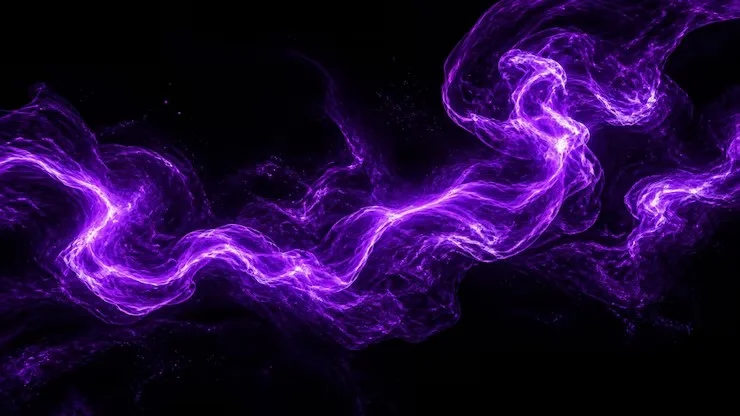
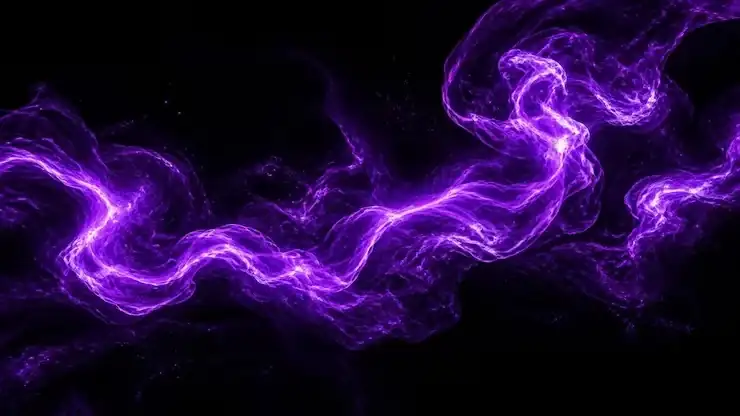
perf: correct pagespeed insight feedback

diff --git a/src/pages/public/HomePage/sections/HeroSection.tsx b/src/pages/public/HomePage/sections/HeroSection.tsx
@@ -15,14 +15,15 @@ import { useThemeStore } from '@/shared/state/useThemeStore';
 
 const HERO_FLARE = '/images/hero-flare.webp';
 
+/** Keep opacity at 1 — Lighthouse LCP was stuck ~2.8s on hero copy with opacity:0. */
 const fadeUp = {
-  hidden: { opacity: 0, y: 10 },
+  hidden: { opacity: 1, y: 12 },
   show: (i: number) => ({
     opacity: 1,
     y: 0,
     transition: {
-      delay: 0.08 + i * 0.1,
-      duration: 0.55,
+      delay: 0.04 + i * 0.06,
+      duration: 0.4,
       ease: [0.22, 1, 0.36, 1] as const,
     },
   }),
@@ -141,7 +142,7 @@ export const HeroSection: React.FC = () => {
             {t('hero.greeting')}
           </motion.p>
 
-          {/* Name - blurIn replays on each re-appearance */}
+          {/* Name — first paint is static (LCP-safe); blurIn only on re-entry */}
           <motion.h1
             ref={nameWrapRef}
             custom={1}
@@ -150,29 +151,38 @@ export const HeroSection: React.FC = () => {
             animate="show"
             className="font-display mb-2 text-[2.15rem] leading-[1.05] text-foreground sm:mb-3 sm:text-5xl md:text-6xl lg:text-7xl"
           >
-            <TextAnimate
-              key={`barthez-${nameEnterKey}`}
-              animation="blurIn"
-              as="span"
-              once={false}
-              startOnView={false}
-              className="mr-2 inline-block"
-              segmentClassName="text-foreground"
-            >
-              Barthez
-            </TextAnimate>
-            <TextAnimate
-              key={`kenwou-${nameEnterKey}`}
-              animation="blurIn"
-              by="character"
-              duration={1}
-              once={false}
-              startOnView={false}
-              className="inline-block uppercase"
-              segmentClassName="text-foreground"
-            >
-              Kenwou
-            </TextAnimate>
+            {nameEnterKey === 0 ? (
+              <>
+                <span className="mr-2 inline-block text-foreground">Barthez</span>
+                <span className="inline-block uppercase text-foreground">Kenwou</span>
+              </>
+            ) : (
+              <>
+                <TextAnimate
+                  key={`barthez-${nameEnterKey}`}
+                  animation="blurIn"
+                  as="span"
+                  once={false}
+                  startOnView={false}
+                  className="mr-2 inline-block"
+                  segmentClassName="text-foreground"
+                >
+                  Barthez
+                </TextAnimate>
+                <TextAnimate
+                  key={`kenwou-${nameEnterKey}`}
+                  animation="blurIn"
+                  by="character"
+                  duration={1}
+                  once={false}
+                  startOnView={false}
+                  className="inline-block uppercase"
+                  segmentClassName="text-foreground"
+                >
+                  Kenwou
+                </TextAnimate>
+              </>
+            )}
           </motion.h1>
 
           {/* Role - hand writing cursor (height reserved by TypingAnimation sizer) */}

diff --git a/src/entities/partners/lib/optimizedPartnerLogos.ts b/src/entities/partners/lib/optimizedPartnerLogos.ts
@@ -1,0 +1,41 @@
+/**
+ * Local WebP stand-ins for partner logos (display ~120×40 / 2× retina).
+ * Remote CMS originals are often 300–2000px PNGs (~1MB total on the home marquee).
+ * Re-run optimization when partner IDs / logos change in CMS.
+ */
+const BY_PARTNER_ID: Record<string, string> = {
+  '6acb84e4a56b65010f954213': '/images/partners/6acb84e4a56b65010f954213.webp', // GTA
+  '6acb84afa56b65010f954210': '/images/partners/6acb84afa56b65010f954210.webp', // ZENORA
+  '6acb8773a56b65010f954225': '/images/partners/6acb8773a56b65010f954225.webp', // NEXUS
+  '6acb8741a56b65010f954222': '/images/partners/6acb8741a56b65010f954222.webp', // Worketyamo
+  '6acb8526a56b65010f954216': '/images/partners/6acb8526a56b65010f954216.webp', // K&C
+  '6acb86e1a56b65010f95421f': '/images/partners/6acb86e1a56b65010f95421f.webp', // ESOPA
+  '6acb86a5a56b65010f95421c': '/images/partners/6acb86a5a56b65010f95421c.webp', // EYG
+  '6acb8652a56b65010f954219': '/images/partners/6acb8652a56b65010f954219.webp', // CAFCA
+  '6acf763b1d98e9625fda9232': '/images/partners/6acf763b1d98e9625fda9232.webp', // Cabinet CESR
+};
+
+/** Filename fragment → local path (survives CMS re-upload of same asset name). */
+const BY_FILENAME_HINT: Array<[string, string]> = [
+  ['logo-esopa', BY_PARTNER_ID['6acb86e1a56b65010f95421f']],
+  ['logo-cafca', BY_PARTNER_ID['6acb8652a56b65010f954219']],
+  ['logo-nexus', BY_PARTNER_ID['6acb8773a56b65010f954225']],
+  ['zenora-logo', BY_PARTNER_ID['6acb84afa56b65010f954210']],
+  ['logo-eyg', BY_PARTNER_ID['6acb86a5a56b65010f95421c']],
+  ['logo-worketyamo', BY_PARTNER_ID['6acb8741a56b65010f954222']],
+  ['logo-kc', BY_PARTNER_ID['6acb8526a56b65010f954216']],
+  ['gta-ecosystem', BY_PARTNER_ID['6acb84e4a56b65010f954213']],
+  ['dee480b2-c333-4246-85dd-07a03d9a09b3', BY_PARTNER_ID['6acf763b1d98e9625fda9232']],
+];
+
+export function resolvePartnerLogoUrl(partnerId: string, remoteUrl: string): string {
+  const byId = BY_PARTNER_ID[partnerId];
+  if (byId) return byId;
+
+  const lower = remoteUrl.toLowerCase();
+  for (const [hint, path] of BY_FILENAME_HINT) {
+    if (lower.includes(hint)) return path;
+  }
+
+  return remoteUrl;
+}

diff --git a/src/app/routes/prefetch.ts b/src/app/routes/prefetch.ts
@@ -4,19 +4,10 @@ import { useSkillIconsStore } from '@/entities/skills/model/useSkillIconsStore';
 export function prefetchRoutes() {
   if (typeof window === 'undefined') return;
 
+  // Only warm the most likely next navigation. Everything else: hover/touch via prefetchRoute().
+  // Eager multi-route prefetch was showing up as a ~6s critical-path tail in Lighthouse.
   const doPrefetch = () => {
-    // Keep the first idle pass light. Blog/project pages pull large mock chunks —
-    // those warm only on hover/touch via prefetchRoute().
-    void import('@/pages/public/AboutPage/About');
-    void import('@/pages/public/ServicePage/service');
     void import('@/pages/public/Contact/contact');
-    void import('@/pages/public/CvPage/cv');
-  };
-
-  const warmHeavy = () => {
-    void import('@/pages/public/SkillPage/skill');
-    void import('@/pages/public/ProjectPage/project');
-    void useSkillIconsStore.getState().ensureLoaded();
   };
 
   const rIC =
@@ -26,11 +17,10 @@ export function prefetchRoutes() {
       }
     ).requestIdleCallback ??
     function (cb: () => void) {
-      return window.setTimeout(cb, 300);
+      return window.setTimeout(cb, 1200);
     };
 
-  rIC(doPrefetch, { timeout: 6000 });
-  window.setTimeout(() => rIC(warmHeavy, { timeout: 10000 }), 8000);
+  rIC(doPrefetch, { timeout: 12000 });
 }
 
 export async function prefetchRoute(path: string) {

diff --git a/src/widgets/Footer/Footer.tsx b/src/widgets/Footer/Footer.tsx
@@ -2,13 +2,14 @@ import React from 'react';
 
 export const Footer: React.FC = () => {
   return (
-    <footer className="relative z-2 w-full min-h-[4.75rem] border-t bg-background px-4 pt-3 pb-21 md:min-h-[5.5rem] md:px-10 md:pt-3 md:pb-24 lg:px-14 xl:min-h-[3rem] xl:pb-3">
+    <footer className="relative z-2 w-full min-h-[5.25rem] border-t bg-background px-4 pt-3 pb-[max(5.25rem,env(safe-area-inset-bottom))] md:min-h-[5.5rem] md:px-10 md:pt-3 md:pb-24 lg:px-14 xl:min-h-[3.25rem] xl:pb-3">
       <div className="mx-auto flex w-full max-w-7xl flex-col items-center justify-between gap-3 text-[11px] text-foreground/50 md:flex-row md:gap-0 md:text-xs">
-        <div className="hidden text-center md:block md:text-left">
+        <div className="hidden min-h-[1rem] text-center md:block md:text-left">
           &copy;&nbsp;copyrights {new Date().getFullYear()}. All rights reserved.
         </div>
 
-        <div className="px-2 text-center font-medium text-balance md:text-right">
+        {/* Fixed line box reduces CLS when webfonts swap in (Lighthouse culprit: footer). */}
+        <div className="flex min-h-[2.5rem] items-center px-2 text-center font-medium text-balance md:min-h-0 md:text-right">
           Barthez Kenwou <span className="mx-1 text-border">|</span>{' '}
           <span className="inline">DevOps Engineer & Fullstack Developer</span>
         </div>

diff --git a/src/pages/public/Layout.tsx b/src/pages/public/Layout.tsx
@@ -4,7 +4,7 @@ import { SidebarProvider } from '@/shared/ui/sidebar.tsx';
 import { PUBLIC_SHELL_BREAKPOINT } from '@/shared/hooks/use-mobile';
 import { Outlet, useLocation } from 'react-router-dom';
 import { Footer } from '@/widgets/Footer';
-import { Suspense } from 'react';
+import { Suspense, useEffect, useRef } from 'react';
 import { RouteFallback } from '@/shared/ui/RouteFallback/RouteFallback';
 import { ErrorBoundary } from '@/app/lib/ErrorBoundary';
 import { usePageEngagement } from '@/shared/hooks/usePageEngagement';
@@ -12,9 +12,17 @@ import { usePageEngagement } from '@/shared/hooks/usePageEngagement';
 function PageShell({ children }: { children: React.ReactNode }) {
   const location = useLocation();
   usePageEngagement(location.pathname);
+  // Skip enter animation on first paint — opacity:0 delays FCP/LCP on home.
+  const isFirstPaint = useRef(true);
+  useEffect(() => {
+    isFirstPaint.current = false;
+  }, []);
 
   return (
-    <div key={location.pathname} className="page-enter">
+    <div
+      key={location.pathname}
+      className={!isFirstPaint.current ? 'page-enter' : undefined}
+    >
       {children}
     </div>
   );

diff --git a/index.html b/index.html
@@ -155,8 +155,9 @@
     <!--
       Performance: ≤4 preconnects, preload LCP deco, fonts loaded async (not CSS @import).
     -->
+    <!-- ≤4 preconnects: fonts + API. Profile is first-party WebP (no Supabase on critical path). -->
     <link rel="dns-prefetch" href="https://fonts.googleapis.com" />
-    <link rel="preconnect" href="https://fonts.gstatic.com" crossorigin />
+    <link rel="dns-prefetch" href="https://fonts.gstatic.com" />
     <link rel="preconnect" href="https://cdn.fontshare.com" crossorigin />
     <link rel="preconnect" href="https://api.fontshare.com" crossorigin />
     <link rel="preconnect" href="https://api.barthez-kenwou.dev" crossorigin />
@@ -167,6 +168,14 @@
       href="/images/hero-flare.webp"
       type="image/webp"
       fetchpriority="high"
+    />
+    <link
+      rel="preload"
+      as="image"
+      href="/images/barthez-type-2.webp"
+      type="image/webp"
+      fetchpriority="high"
+      media="(min-width: 1280px)"
     />
 
     <script>

diff --git a/src/shared/assets/images/profilePhotos.ts b/src/shared/assets/images/profilePhotos.ts
@@ -1,13 +1,10 @@
 /**
- * Sidebar gallery order:
- * 1. Former About page portrait
- * 2. Former sidebar lead
- * 3. Previous 3rd
- * 4. Former 6th (also About profile)
+ * Sidebar gallery — first-party assets (long cache, no Supabase RTT on LCP path).
+ * Order: lead portrait, then gallery alternates.
  */
 export const profilePhotos = [
-  'https://jebiwuygwtpmdnhhzsbw.supabase.co/storage/v1/object/public/Portfolio-Barthez/Profile/barthez-type-2.jpeg',
-  'https://jebiwuygwtpmdnhhzsbw.supabase.co/storage/v1/object/public/Portfolio-Barthez/Profile/barthez-kenwou.png',
-  'https://jebiwuygwtpmdnhhzsbw.supabase.co/storage/v1/object/public/Portfolio-Barthez/Profile/profile-barthez-2.jpeg',
-  'https://jebiwuygwtpmdnhhzsbw.supabase.co/storage/v1/object/public/Portfolio-Barthez/Profile/profile.jpeg',
+  '/images/barthez-type-2.webp',
+  '/images/barthez-kenwou.png',
+  '/images/profile-barthez-2.jpeg',
+  '/images/profile.jpeg',
 ];

diff --git a/src/pages/public/HomePage/sections/TrustedBySection.tsx b/src/pages/public/HomePage/sections/TrustedBySection.tsx
@@ -1,5 +1,5 @@
 import React, { useMemo } from 'react';
-import { usePublicPartners } from '@/entities/partners';
+import { resolvePartnerLogoUrl, usePublicPartners } from '@/entities/partners';
 import type { IPartner } from '@/entities/partners';
 import { useLanguageStore } from '@/shared/state/useLanguageStore';
 import { QueryState } from '@/shared/ui/QueryState';
@@ -24,10 +24,11 @@ const PartnerLogoCell: React.FC<{
 }> = ({ partner, isFr, className }) => {
   const relation = isFr ? partner.relationFr : partner.relationEn;
   const title = [partner.name, relation].filter(Boolean).join(' — ');
+  const logoSrc = resolvePartnerLogoUrl(partner.id, partner.logoUrl);
   const inner = (
     <>
       <img
-        src={partner.logoUrl}
+        src={logoSrc}
         alt={partner.name}
         width={120}
         height={40}

diff --git a/src/pages/public/HomePage/home.tsx b/src/pages/public/HomePage/home.tsx
@@ -50,14 +50,20 @@ export const HomePage: React.FC = () => {
         </DeferredMount>
 
         <DeferredMount
-          timeout={1200}
-          rootMargin="160px"
+          timeout={2000}
+          rootMargin="80px"
           fallback={<div className="min-h-[48rem]" aria-hidden />}
         >
           <DarkBrandParallaxBand>
             <ServiceSection />
             <WhyChooseMeSection />
-            <TrustedBySection />
+            <DeferredMount
+              timeout={800}
+              rootMargin="40px"
+              fallback={<div className="min-h-[14rem]" aria-hidden />}
+            >
+              <TrustedBySection />
+            </DeferredMount>
             <TestimonialsSection />
           </DarkBrandParallaxBand>
         </DeferredMount>

diff --git a/src/app/App.tsx b/src/app/App.tsx
@@ -79,7 +79,8 @@ export const App: React.FC = () => {
       ).requestIdleCallback ?? ((cb: () => void) => window.setTimeout(cb, 1));
 
     const onLoad = () => {
-      window.setTimeout(() => ric(warm, { timeout: 8000 }), 4000);
+      // Wait well past LCP before warming any secondary chunks.
+      window.setTimeout(() => ric(warm, { timeout: 15000 }), 10000);
     };
     if (document.readyState === 'complete') onLoad();
     else window.addEventListener('load', onLoad, { once: true });

diff --git a/src/widgets/AppSidebar/AppSidebarCompoments/SidebarHeader.tsx b/src/widgets/AppSidebar/AppSidebarCompoments/SidebarHeader.tsx
@@ -46,6 +46,7 @@ export const SidebarHeaderSection: React.FC = () => {
               src={profilePhotos[0]}
               alt="Barthez Kenwou"
               lazy={false}
+              priority
               showSkeleton
               showSpinner={false}
               className="absolute inset-0 size-full transition-transform duration-500 ease-in-out group-hover/picture:scale-105"

diff --git a/src/shared/ui/Image/Image.ui.tsx b/src/shared/ui/Image/Image.ui.tsx
@@ -123,6 +123,7 @@ export const Image: React.FC<ImageProps> = ({
           srcSet={srcSet}
           sizes={sizes}
           loading={lazy ? 'lazy' : 'eager'}
+          fetchPriority={priority ? 'high' : undefined}
           onLoad={handleLoad}
           onError={handleError}
           style={{
